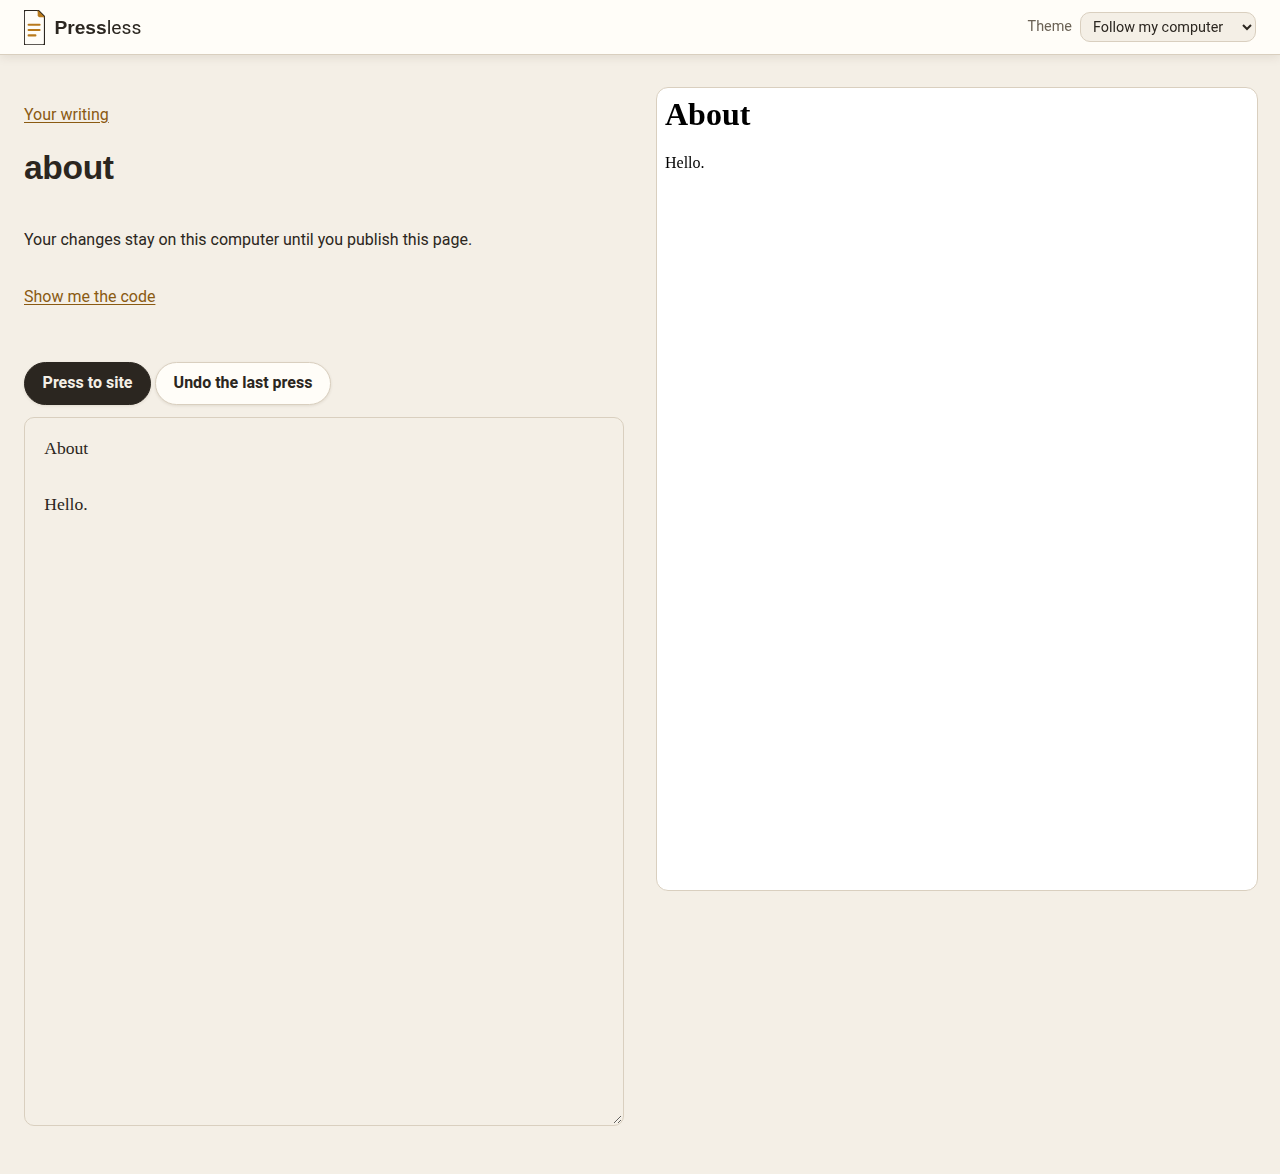
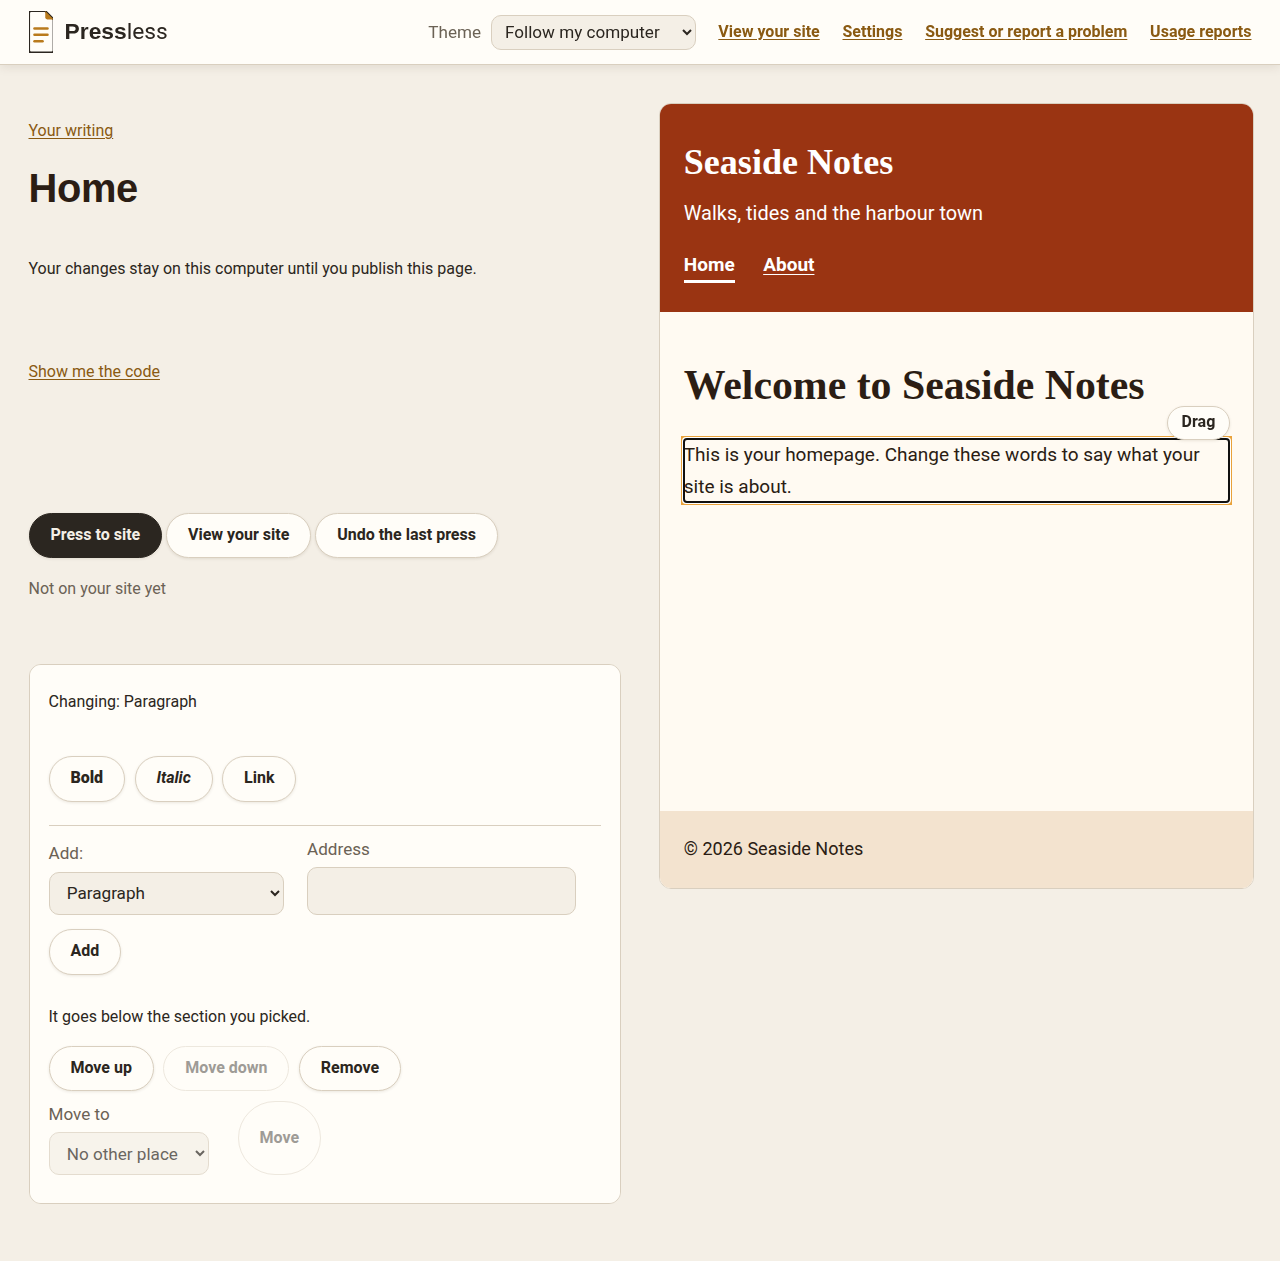
content: Pressless's gallery shows the 0.9.0 page editor and page list
Two shots from the Pressless session replace the page editor (which
showed the words box 0.9.0 removed) and the writing list, under the same
names, so the gallery stays at seven. The list's alt text was corrected
against the shot: two pages have "changes not on your site yet" (not
"new pages"), and the screen says "Navigation".

write-doc: alt text read against both images; no link, path, symbol,
count, version or quotation added, so check-doc-facts was not run.
CLAUDE.md rule 14: src/projects.json is site content, nothing is built
from or under it, no gate.

diff --git a/CHANGELOG.md b/CHANGELOG.md
@@ -23,7 +23,7 @@ so dated sections stand in for versions. Planned work lives in
 
 - **RetroArch's page lists another fix merged into the official project**
 
-- **Pressless's page describes editing your whole site: pages, menus, header and footer**
+- **Pressless's page describes editing your whole site: pages, menus, header and footer, with new screenshots of the page editor and the page list**
 
 ## 2026-10-14
 
